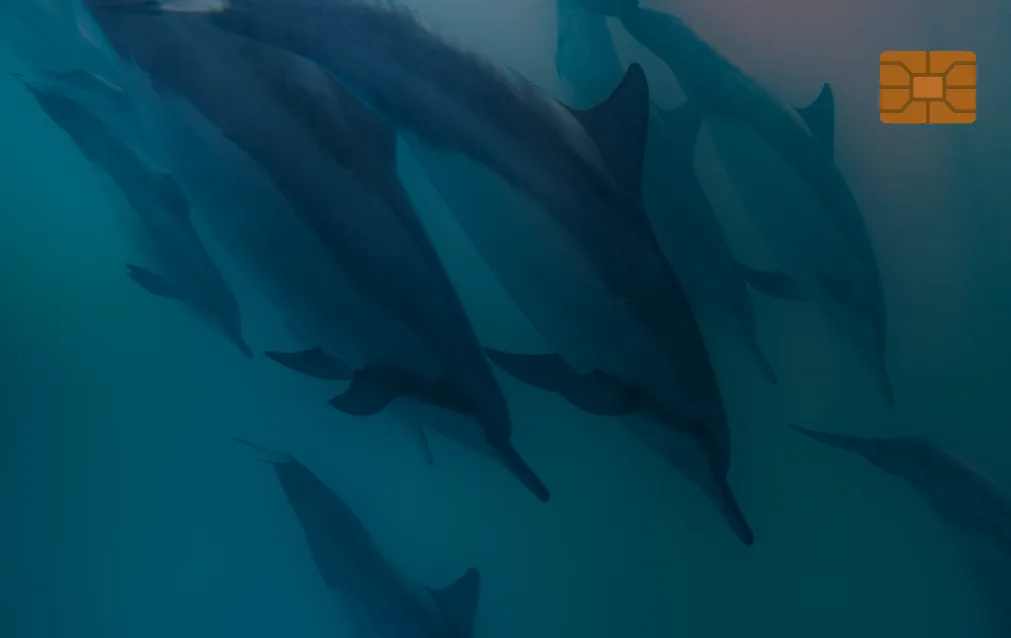
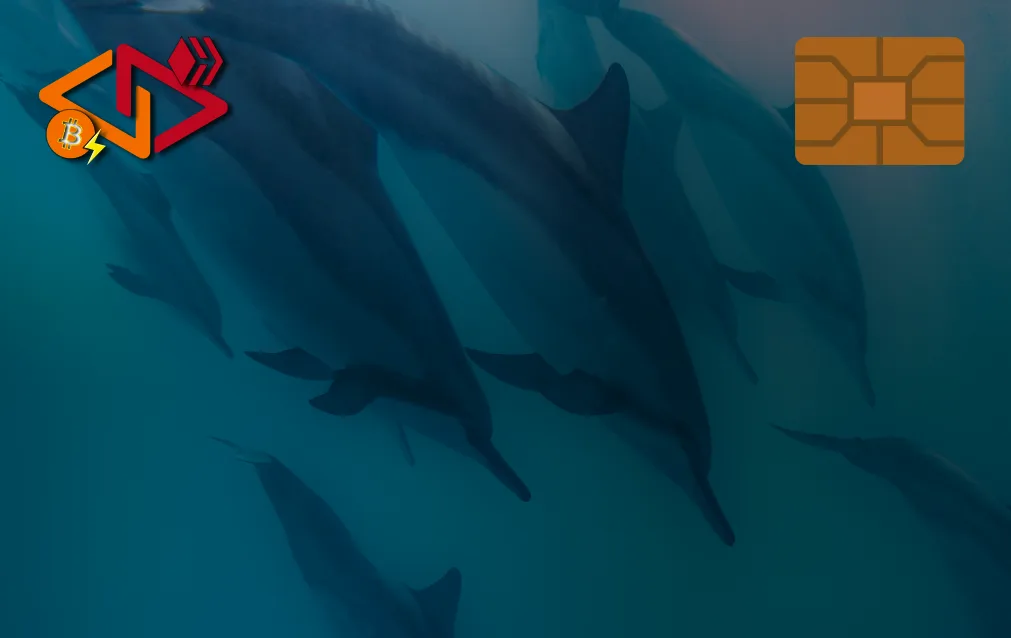
new credit card vote button change

diff --git a/src/components/hive/CreditCard.vue b/src/components/hive/CreditCard.vue
@@ -1,67 +1,64 @@
 <template>
-  <div class="q-pb-lg">
-    <q-card width="370px" v-if="storeUser.currentUser" class="q-pa-xs">
-      <q-card-section class="credit-card q-pa-xs">
-        <q-img
-          class="credit-card-aspect-ratio"
-          :src="creditCardImage"
-          width="360px"
-          basic
-        >
-          <div class="text-overlay">
-            <i class="fa-brands fa-hive" />
-          </div>
-          <div class="absolute-bottom text-subtitle2 text-left">
-            <div class="row">
-              <div class="col-8 flex items-center">
-                <div>
-                  <q-avatar rounded size="md">
-                    <HiveAvatar :hiveAccname="storeUser.hiveAccname" />
-                  </q-avatar>
-                </div>
-                <div class="q-pl-sm">
-                  <div class="text-h7 embossed-text">
-                    {{ storeUser.profileName }}
-                  </div>
-                  <div class="text-subtitle2">@{{ storeUser.hiveAccname }}</div>
-                </div>
+  <q-card width="375px" v-if="storeUser.currentUser" class="q-ma-xs">
+    <q-card-section class="credit-card q-pa-xs">
+      <q-img
+        class="credit-card-aspect-ratio"
+        :src="creditCardImage"
+        width="365px"
+        basic
+      >
+        <div class="absolute-bottom text-subtitle2 text-left">
+          <div class="row">
+            <div class="col-8 flex items-center">
+              <div class="credit-card-avatar">
+                <q-avatar rounded size="md">
+                  <HiveAvatar :hiveAccname="storeUser.hiveAccname" />
+                </q-avatar>
               </div>
-              <div class="col-4 text-right">
-                <tr>
-                  <td class="numeric-cell">
-                    {{ storeUser.hiveBalance }}
-                  </td>
-                  <td>
-                    <q-icon name="fa-brands fa-hive" />
-                  </td>
-                </tr>
-                <tr>
-                  <td class="numeric-cell">
-                    {{ storeUser.hbdBalance }}
-                  </td>
-                  <td class="q-pl-sm">
-                    <q-icon name="img:/avatars/hbd_logo.svg">
-                      <q-tooltip>HBD - Hive Blockchain Dollar</q-tooltip>
-                    </q-icon>
-                  </td>
-                </tr>
-                <tr>
-                  <td class="numeric-cell q-pt-sm">
-                    <strong>{{ storeUser.satsBalance }}</strong>
-                  </td>
-                  <td>
-                    <q-icon name="fa-brands fa-btc">
-                      <q-tooltip>BTC equivalent in Sats</q-tooltip>
-                    </q-icon>
-                  </td>
-                </tr>
+              <div class="credit-card-text q-pl-sm">
+                <div class="text-h7 embossed-text">
+                  {{ storeUser.profileName }}
+                </div>
+                <div class="text-subtitle2">
+                  {{ storeUser.hiveAccname }}@v4v.app
+                </div>
               </div>
             </div>
+            <div class="col-4 text-right">
+              <tr>
+                <td class="numeric-cell">
+                  {{ storeUser.hiveBalance }}
+                </td>
+                <td>
+                  <q-icon name="fa-brands fa-hive" />
+                </td>
+              </tr>
+              <tr>
+                <td class="numeric-cell">
+                  {{ storeUser.hbdBalance }}
+                </td>
+                <td class="q-pl-sm">
+                  <q-icon name="img:/avatars/hbd_logo.svg">
+                    <q-tooltip>HBD - Hive Blockchain Dollar</q-tooltip>
+                  </q-icon>
+                </td>
+              </tr>
+              <tr>
+                <td class="numeric-cell q-pt-sm">
+                  <strong>{{ storeUser.satsBalance }}</strong>
+                </td>
+                <td>
+                  <q-icon name="fa-brands fa-btc">
+                    <q-tooltip>BTC equivalent in Sats</q-tooltip>
+                  </q-icon>
+                </td>
+              </tr>
+            </div>
           </div>
-        </q-img>
-      </q-card-section>
-    </q-card>
-  </div>
+        </div>
+      </q-img>
+    </q-card-section>
+  </q-card>
 </template>
 
 <script setup>
@@ -93,15 +90,6 @@ storeUser.update()
   background-size: cover;
   border-radius: 12px;
   opacity: 1;
-}
-
-.text-overlay {
-  position: absolute;
-  top: 0;
-  left: 0;
-  color: white;
-  font-size: 16px;
-  padding: 10px;
 }
 
 .numeric-cell {

diff --git a/src/components/utils/VoteProposal.vue b/src/components/utils/VoteProposal.vue
@@ -3,8 +3,7 @@
     <q-btn
       :label="$t('vote')"
       rounded
-      color="yellow"
-      text-color="black"
+      color="primary"
       @click="vote"
     >
       <q-tooltip>
@@ -34,7 +33,7 @@
         <q-btn
           :label="$t('vote')"
           rounded
-          color="yellow"
+          color="primary"
           text-color="black"
           @click="doVotes"
         >
@@ -49,14 +48,17 @@
 </template>
 
 <script setup>
-import { ref } from "vue"
+import { onMounted, ref } from "vue"
 import HiveSelectFancyAcc from "components/HiveSelectFancyAcc.vue"
 import { KeychainSDK } from "keychain-sdk"
+import { useStoreUser } from "src/stores/storeUser"
 import { useQuasar } from "quasar"
 import { useI18n } from "vue-i18n"
+import { store } from "quasar/wrappers"
 const t = useI18n().t
 const q = useQuasar()
 const showThankYou = ref(false)
+const storeUser = useStoreUser()
 
 const modelValue = defineModel({
   hiveUser: {
@@ -80,6 +82,15 @@ const modelValue = defineModel({
 if (!modelValue.value?.proposalId) {
   modelValue.value.proposalId = "265"
 }
+
+onMounted(() => {
+  console.log('onMounted voteProposal.vue')
+  console.log(storeUser.currentUser)
+  if(storeUser.currentUser) {
+    hiveAccname.value = storeUser.currentUser
+    modelValue.value.hiveUser = storeUser.currentUser
+  }
+})
 
 const hiveAccname = ref({ label: "", value: modelValue.hiveUser, caption: "" })
 

diff --git a/src/pages/LightningPage.vue b/src/pages/LightningPage.vue
@@ -1,7 +1,7 @@
 <template>
   <q-page>
     <div class="outer-wrapper row justify-center q-gutter-sm q-pt-lg">
-      <div v-if="!cameraShow">
+      <div v-if="!cameraShow" class="q-pb-lg">
         <CreditCard />
       </div>
       <div v-else>
@@ -154,10 +154,6 @@
 </template>
 
 <style lang="scss" scoped>
-div {
-  // border: 1px solid green;
-}
-
 .invoice-input,
 .invoice-timer {
   width: 300px;

diff --git a/src/css/app.scss b/src/css/app.scss
@@ -15,5 +15,3 @@
     color: whitesmoke;
   }
 }
-
-
